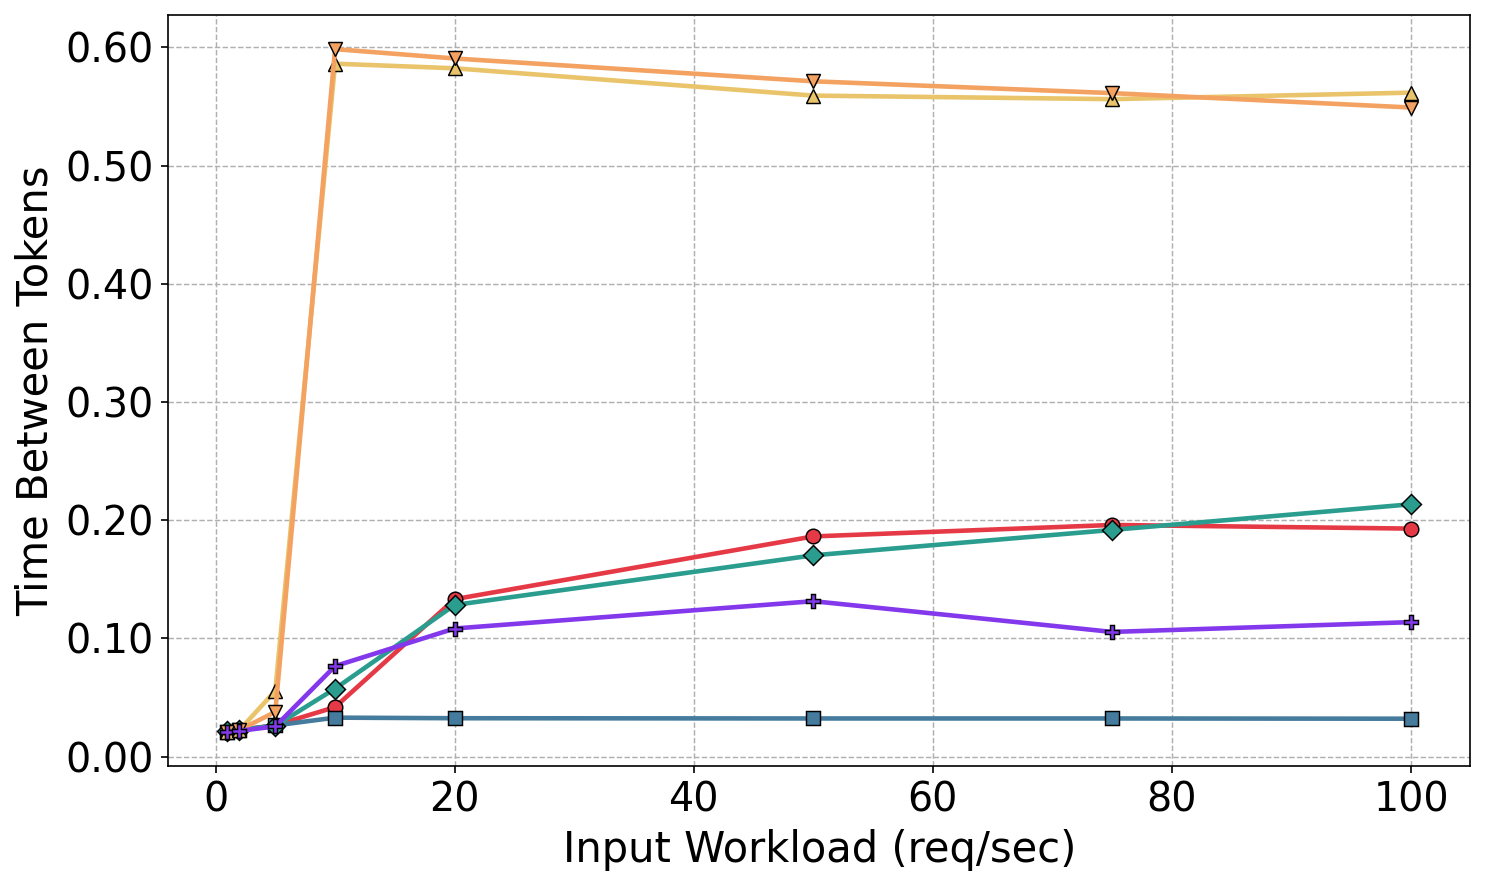
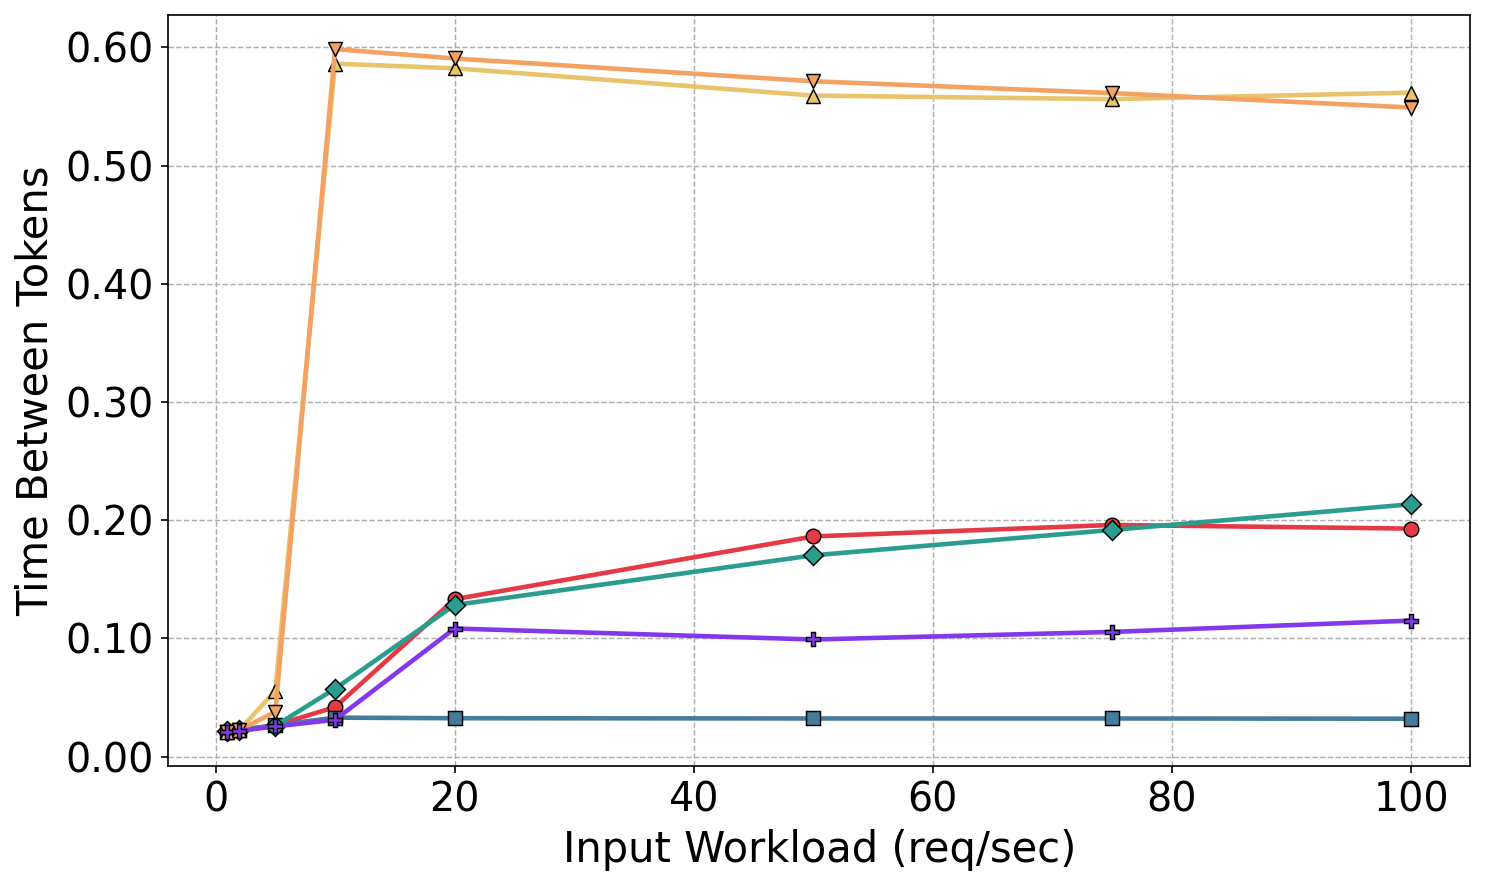
req-per-sec-plots-smoothed

diff --git a/code/vllm/req_per_sec_logs/plot.py b/code/vllm/req_per_sec_logs/plot.py
@@ -120,6 +120,11 @@ for path in log_files:
         f"tput={throughput}  batch={avg_batch}  "
         f"dt={avg_diff}"
     )
+    if label in data and rps in data[label]:
+        existing_tput = data[label][rps].get("throughput") or 0
+        new_tput = throughput or 0
+        if new_tput <= existing_tput:
+            continue
 
     data[label][rps] = dict(
         throughput=throughput,
